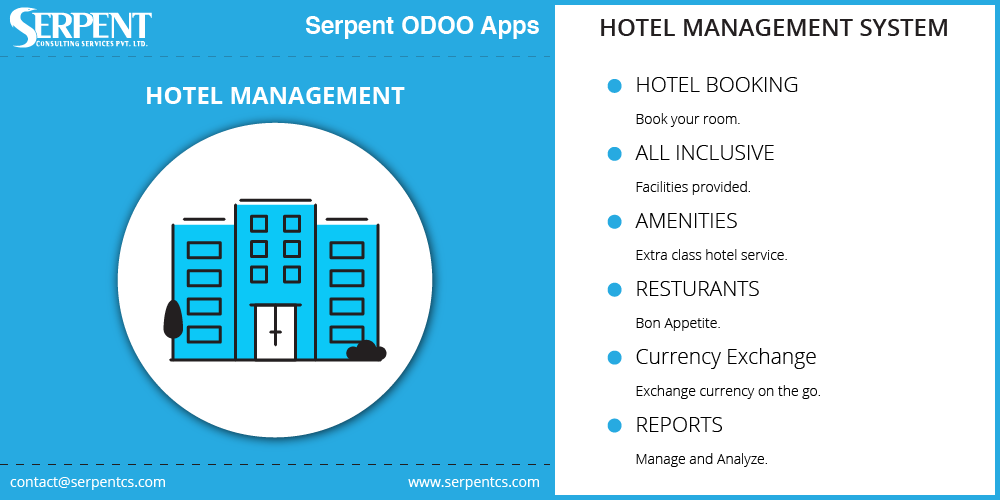
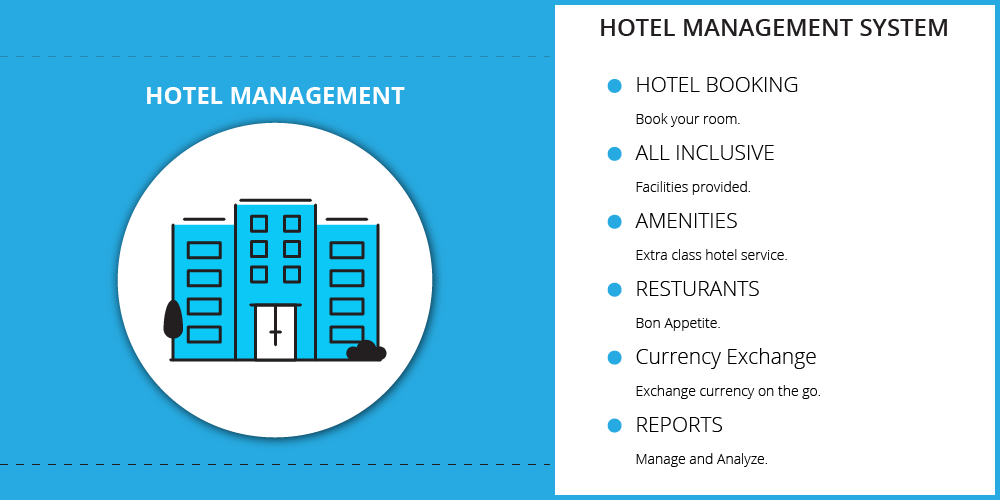
Remove branding
[FIX] Remove branding

diff --git a/hotel/static/description/index.html b/hotel/static/description/index.html
@@ -1,7 +1,6 @@
 <section class="oe_container">
     <div class="oe_row oe_spaced">
         <div class="oe_span12">
-            <img style="top:35px; width: 80px; height:80px; margin-right:2cm" src= "serpent.png" align="left">
             <h1 style="font-size:250%; font-family:courier; color:black; text-align:center;">Hotel Management System</h1>
         </div>
     </div>
@@ -54,383 +53,4 @@
         </div>
     </div>
 </section>
-<table
-    style="font-family: 'Helvetica Neue', Helvetica, Arial, sans-serif;"
-    cellpadding="0" cellspacing="0" border="0" width="100%">
 
-    <tbody>
-        <tr>
-            <td colspan="2"
-                style="font-size: 16px; color: #d74930; font-weight: bold;"
-                width="100%" align="center"><span
-                class="fa fa-certificate fa-1x" style="color: #1f2327;">Check
-                    out our various Odoo Services below</spam></td>
-        </tr>
-        <tr>
-            <td colspan="2"
-                style="border-bottom: #d74930 solid 1px; line-height: 10px;">&nbsp;
-            </td>
-        </tr>
-        <tr>
-            <td colspan="2">
-                <table
-                    style="font-size: 11px; color: #697582; line-height: 20px;"
-                    cellpadding="0" cellspacing="0" border="0"
-                    width="100%">
-                    <tbody>
-                        <tr>
-                            <td width="20%"><span
-                                class="fa fa-globe fa-1x"
-                                style="color: #697582;"> <a
-                                    href="http://www.serpentcs.com/services/odoo-openerp-services/consulting"
-                                    style="color: #697582; text-decoration: none;">Odoo
-                                        Consulting</a></span></td>
-                            <td width="20%"><span
-                                class="fa fa-globe fa-1x"
-                                style="color: #697582;"> <a
-                                    href="http://www.serpentcs.com/services/odoo-openerp-services/gap-analysis"
-                                    style="color: #697582; text-decoration: none;">Gap
-                                        Analysis and BPR</a></span></td>
-                            <td width="20%"><span
-                                class="fa fa-globe fa-1x"
-                                style="color: #697582;"> <a
-                                    href="http://www.serpentcs.com/services/odoo-openerp-services/implementation"
-                                    style="color: #697582; text-decoration: none;">Odoo
-                                        Implementation</a></span></td>
-                            <td width="20%"><span
-                                class="fa fa-globe fa-1x"
-                                style="color: #697582;"> <a
-                                    href="http://www.serpentcs.com/services/ecommerce-integrations/magento-integration"
-                                    style="color: #697582; text-decoration: none;">Integration
-                                        with E-Commerce</a></span></td>
-                            <td width="20%"><span
-                                class="fa fa-globe fa-1x"
-                                style="color: #697582;"> <a
-                                    href="http://www.serpentcs.com/services/trainings/openerp-odoo-technical-training"
-                                    style="color: #697582; text-decoration: none;">Odoo
-                                        Technical Training</a></span></td>
-                        </tr>
-                        <tr>
-                            <td width="20%"><span
-                                class="fa fa-globe fa-1x"
-                                style="color: #697582;"> <a
-                                    href="http://www.serpentcs.com/services/odoo-openerp-services/offshore-development-partnership"
-                                    style="color: #697582; text-decoration: none;">Offshore
-                                        & Onsite Development</a></span></td>
-                            <td width="20%"><span
-                                class="fa fa-globe fa-1x"
-                                style="color: #697582;"> <a
-                                    href="http://www.serpentcs.com/odoo-packages/odoo-support-package"
-                                    style="color: #697582; text-decoration: none;">Support
-                                        and Maintenance</a></span></td>
-                            <td width="20%"><span
-                                class="fa fa-globe fa-1x"
-                                style="color: #697582;"> <a
-                                    href="http://www.serpentcs.com/services/odoo-openerp-services/hire-odoo-openerp-developer"
-                                    style="color: #697582; text-decoration: none;">Hire
-                                        Dedicated Odoo Developer</a></span></td>
-                            <td width="20%"><span
-                                class="fa fa-globe fa-1x"
-                                style="color: #697582;"> <a
-                                    href="http://www.serpentcs.com/services/ecommerce-integrations/paymentech-elavon-paypal-integration"
-                                    style="color: #697582; text-decoration: none;">Payment
-                                        Gateway Integrations</a></span></td>
-                            <td width="20%"><span
-                                class="fa fa-globe fa-1x"
-                                style="color: #697582;"> <a
-                                    href="http://www.serpentcs.com/services/trainings/openerpodoo-functional-training"
-                                    style="color: #697582; text-decoration: none;">Odoo
-                                        Functional Training</a></span></td>
-                        </tr>
-                        <tr>
-                            <td width="20%"><span
-                                class="fa fa-globe fa-1x"
-                                style="color: #697582;"> <a
-                                    href="http://www.serpentcs.com/services/community/aios-mobile-client"
-                                    style="color: #697582; text-decoration: none;">Odoo
-                                        Mobile App Development</a></span></td>
-                            <td width="20%"><span
-                                class="fa fa-globe fa-1x"
-                                style="color: #697582;"> <a
-                                    href="http://www.odooqa.com/page/manual-functional-testing"
-                                    style="color: #697582; text-decoration: none;">Odoo
-                                        Manual Testing</a></span></td>
-                            <td width="20%"><span
-                                class="fa fa-globe fa-1x"
-                                style="color: #697582;"> <a
-                                    href="http://www.odooqa.com/page/automated-functional-testing"
-                                    style="color: #697582; text-decoration: none;">Odoo
-                                        Automated Testing</a></span></td>
-                            <td width="20%"><span
-                                class="fa fa-globe fa-1x"
-                                style="color: #697582;"> <a
-                                    href="http://www.serpentcs.com/services/ecommerce-integrations/fedex-ups-usps-integration"
-                                    style="color: #697582; text-decoration: none;">Integration
-                                        with Shipping API</a></span></td>
-                            <td width="20%"><span
-                                class="fa fa-globe fa-1x"
-                                style="color: #697582;"> <a
-                                    href="http://www.serpentcs.com/services/odoo-openerp-services/installation-and-hosting"
-                                    style="color: #697582; text-decoration: none;">Installation
-                                        & Hosting</a></span></td>
-                        </tr>
-                    </tbody>
-                </table>
-            </td>
-        </tr>
-        <tr>
-            <td colspan="2"
-                style="border-bottom: #d74930 solid 1px; line-height: 10px;">&nbsp;
-            </td>
-        </tr>
-
-        <tr>
-            <td colspan="2"
-                style="font-size: 16px; color: #d74930; font-weight: bold;"
-                width="100%" align="center"><span
-                class="fa fa-certificate fa-1x" style="color: #1f2327;">Check
-                    out our various Odoo Based Products</spam></td>
-        </tr>
-        <tr>
-            <td colspan="2"
-                style="border-bottom: #d74930 solid 1px; line-height: 10px;">&nbsp;
-            </td>
-        </tr>
-        <tr>
-            <td colspan="2">
-                <table
-                    style="font-size: 11px; color: #697582; line-height: 20px;"
-                    cellpadding="0" cellspacing="0" border="0"
-                    width="100%">
-                    <tbody>
-                        <tr>
-                            <td width="20%"><span
-                                class="fa fa-coffee fa-1x"
-                                style="color: #697582;"> <a
-                                    href="http://serpentcs.in/product/restaurant-management-system"
-                                    style="color: #697582; text-decoration: none;">Restaurant
-                                        Management</a></span></td>
-                            <td width="20%"><span
-                                class="fa fa-building fa-1x"
-                                style="color: #697582;"> <a
-                                    href="http://serpentcs.in/product/property-management-system"
-                                    style="color: #697582; text-decoration: none;">Property
-                                        Management</a></span></td>
-                            <td width="20%"><span
-                                class="fa fa-plane fa-1x"
-                                style="color: #697582;"> <a
-                                    href="http://serpentcs.in/product/visa-management-system"
-                                    style="color: #697582; text-decoration: none;">Visa
-                                        Agency Management</a></span></td>
-                            <td width="20%"><span
-                                class="fa fa-globe fa-1x"
-                                style="color: #697582;"> <a
-                                    href="http://serpentcs.in/product/odoo-singapore-localization"
-                                    style="color: #697582; text-decoration: none;">Singapore
-                                        Localization</a></span></td>
-                            <td width="20%"><span
-                                class="fa fa-graduation-cap fa-1x"
-                                style="color: #697582;"> <a
-                                    href="http://serpentcs.in/product/education-management-system"
-                                    style="color: #697582; text-decoration: none;">School,
-                                        University Management</a></span></td>
-                        </tr>
-                        <tr>
-                            <td width="20%"><span
-                                class="fa fa-cubes fa-1x"
-                                style="color: #697582;"> <a
-                                    href="http://serpentcs.in/product/construction-management-system"
-                                    style="color: #697582; text-decoration: none;">Construction
-                                        Management</a></span></td>
-                            <td width="20%"><span
-                                class="fa fa-bus fa-1x"
-                                style="color: #697582;"> <a
-                                    href="http://serpentcs.in/product/fleet-management-systems"
-                                    style="color: #697582; text-decoration: none;">Fleet
-                                        Management</a></span></td>
-                            <td width="20%"><span
-                                class="fa fa-stethoscope fa-1x"
-                                style="color: #697582;"> <a
-                                    href="http://serpentcs.in/product/healthcare-management-software"
-                                    style="color: #697582; text-decoration: none;">Medical
-                                        ERP</a></span></td>
-                            <td width="20%"><span
-                                class="fa fa-hotel fa-1x"
-                                style="color: #697582;"> <a
-                                    href="http://serpentcs.in/product/hotel-management-system"
-                                    style="color: #697582; text-decoration: none;">Hotel
-                                        Management</a></span></td>
-                            <td width="20%"><span
-                                class="fa fa-users fa-1x"
-                                style="color: #697582;"> <a
-                                    href="http://serpentcs.in/product/human-resource-management-system"
-                                    style="color: #697582; text-decoration: none;">Human
-                                        Resource Management</a></span></td>
-                        </tr>
-                        <tr>
-                            <td width="20%"><span
-                                class="fa fa-map-marker fa-1x"
-                                style="color: #697582;"> <a
-                                    href="http://serpentcs.in/product/odoo-fieldstaff-tracking-system"
-                                    style="color: #697582; text-decoration: none;">Field
-                                        Service Management</a></span></td>
-                            <td width="20%"><span
-                                class="fa fa-globe fa-1x"
-                                style="color: #697582;"> <a
-                                    href="http://serpentcs.in/product/spa-salon-management-system"
-                                    style="color: #697582; text-decoration: none;">Spa
-                                        & Salone Management</a></span></td>
-                            <td width="20%"><span
-                                class="fa fa-phone fa-1x"
-                                style="color: #697582;"> <a
-                                    href="http://serpentcs.in/product/odoo-ringcentral-integration"
-                                    style="color: #697582; text-decoration: none;">Ringcentral
-                                        telephone integration</a></span></td>
-                            <td width="20%"><span
-                                class="fa fa-heart fa-1x"
-                                style="color: #697582;"> <a
-                                    href="http://serpentcs.in/product/customer-relationship-management"
-                                    style="color: #697582; text-decoration: none;">Customer
-                                        Relationship</a></span></td>
-                            <td width="20%"><span
-                                class="fa fa-user fa-1x"
-                                style="color: #697582;"> <a
-                                    href="http://serpentcs.in/product/talent-management-system"
-                                    style="color: #697582; text-decoration: none;">Talent
-                                        Management</a></span></td>
-                        </tr>
-                    </tbody>
-                </table>
-            </td>
-        </tr>
-
-        <tr>
-            <td colspan="2"
-                style="border-bottom: #d74930 solid 1px; line-height: 10px;">&nbsp;
-            </td>
-        </tr>
-
-        <tr>
-            <td colspan="2"
-                style="font-size: 16px; color: #d74930; font-weight: bold;"
-                width="100%" align="center"><span
-                class="fa fa-certificate fa-1x" style="color: #1f2327;">For
-                    any questions, support and development contact us.</spam></td>
-        </tr>
-        <tr>
-            <td colspan="2"
-                style="border-bottom: #d74930 solid 1px; line-height: 10px;">&nbsp;
-            </td>
-        </tr>
-        <tr>
-            <td colspan="2">
-                <table
-                    style="font-size: 11px; color: #697582; line-height: 20px;"
-                    cellpadding="0" cellspacing="0" border="0"
-                    width="100%">
-                    <tbody>
-                        <tr>
-                            <td width="38%"><span
-                                class="fa fa-whatsapp fa-1x"
-                                style="color: #697582;"> (+91)
-                                    98793-54457, (+91) 90334-72982 </span> <span
-                                class="fa fa-phone fa-1x"
-                                style="color: #697582;">
-                                    +91-79-2975-0867</span></td>
-                            <td width="17%"><span
-                                class="fa fa-envelope fa-1x"
-                                style="color: #697582;"> <a
-                                    href="mailto:contact@serpentcs.com"
-                                    style="color: #697582; text-decoration: none;">contact@serpentcs.com</a></span></td>
-                            <td width="15%"><span
-                                class="fa fa-globe fa-1x"
-                                style="color: #697582;"> <a
-                                    href="http://www.serpentcs.com"
-                                    style="color: #697582; text-decoration: none;">www.serpentcs.com</a></span></td>
-                            <td width="15%"><span
-                                class="fa fa-globe fa-1x"
-                                style="color: #697582;"> <a
-                                    href="http://www.serpentcs.in"
-                                    style="color: #697582; text-decoration: none;">www.serpentcs.in</a></span></td>
-                            <td width="15%"><span
-                                class="fa fa-globe fa-1x"
-                                style="color: #697582;"> <a
-                                    href="http://www.odooqa.com"
-                                    style="color: #697582; text-decoration: none;">www.odooqa.com</a></span></td>
-                        </tr>
-                        <tr>
-                            <td width="38%"><span
-                                class="fa fa-hand-pointer-o fa-1x"
-                                style="color: #697582;">
-                                    WhatsApp, Telegram or Call 24X7</span></td>
-                            <td width="17%"><span
-                                class="fa fa-hand-pointer-o fa-1x"
-                                style="color: #697582;"> Help!
-                                    Send Mail</span></td>
-                            <td width="15%"><span
-                                class="fa fa-hand-pointer-o fa-1x"
-                                style="color: #697582;"> Browse
-                                    our Services</span></td>
-                            <td width="15%"><span
-                                class="fa fa-hand-pointer-o fa-1x"
-                                style="color: #697582;"> Browse
-                                    our Products</span></td>
-                            <td width="15%"><span
-                                class="fa fa-hand-pointer-o fa-1x"
-                                style="color: #697582;"> QA
-                                    Services</span></td>
-                        </tr>
-                    </tbody>
-                </table>
-            </td>
-        </tr>
-        <tr colspan="2">
-            <td colspan="2"
-                style="border-bottom: #d74930 solid 1px; line-height: 10px;">&nbsp;
-            </td>
-        </tr>
-        <tr colspan="2">
-            <td colspan="2" style="padding-top: 9px;"><a
-                href="https://www.facebook.com/Serpent-Consulting-Services-Pvt-Ltd-299017730141795/"
-                style="text-decoration: none;"><img src="fb.jpg"
-                    style="vertical-align: middle; border-radius: 50%;"
-                    width="25"> </a> <a
-                href="https://twitter.com/Serpent_CS"
-                style="text-decoration: none;"><img
-                    src="twitter.jpg"
-                    style="vertical-align: middle; border-radius: 50%;"
-                    width="25"> </a> <a
-                href="https://www.linkedin.com/company-beta/2435682/"
-                style="text-decoration: none;"><img src="in.jpg"
-                    style="vertical-align: middle; border-radius: 50%;"
-                    width="25"> </a> <a
-                href="https://www.youtube.com/user/husendaudi123/videos"
-                style="text-decoration: none;"><img
-                    src="youtube.jpg"
-                    style="vertical-align: middle; border-radius: 50%;"
-                    width="25"> </a> <a
-                href="https://www.instagram.com/explore/tags/serpentcs/"
-                style="text-decoration: none;"><img src="insta.jpg"
-                    style="vertical-align: middle; border-radius: 50%;"
-                    width="25"> </a> <a
-                href="http://www.serpentcs.com"
-                style="text-decoration: none;"><img
-                    src="serpent32.png"
-                    style="vertical-align: middle; border-radius: 50%;"
-                    width="25"> </a> <a href="http://www.serpentcs.in"
-                style="text-decoration: none;"><img
-                    src="serpent32.png"
-                    style="vertical-align: middle; border-radius: 50%;"
-                    width="25"> </a> <a href="http://www.odooqa.com"
-                style="text-decoration: none;"><img
-                    src="odooqa32.png"
-                    style="vertical-align: middle; border-radius: 50%;"
-                    width="25"> </a></td>
-        </tr>
-        <tr colspan="2">
-            <td colspan="2"
-                style="font-size: 8px; color: #697582; line-height: 15px; padding-top: 10px; text-align: justify;">
-            </td>
-        </tr>
-    </tbody>
-</table>
